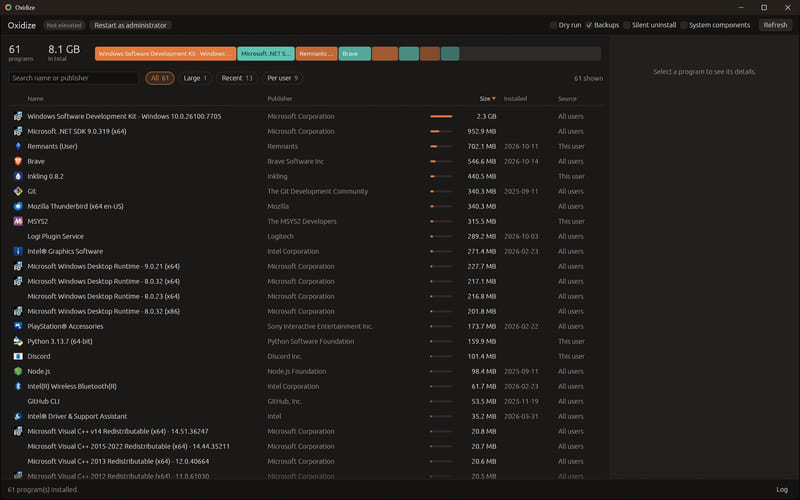
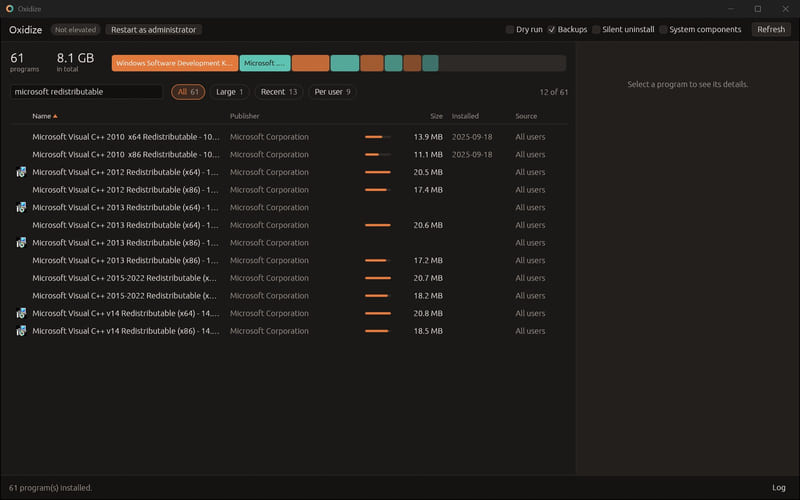
Retake the Oxidize and Inkling screenshots

diff --git a/src/constants/projects/oxidize.ts b/src/constants/projects/oxidize.ts
@@ -73,7 +73,7 @@ export const oxidize: Record<Language, LocalizedContent> = {
       },
     ],
     captions: [
-      "The Oxidize window: 61 programs and 8.1 GB at a glance, a bar of the biggest, and the list sorted by size. Pick a program to uninstall it and see what it left behind.",
+      "The Oxidize window: 61 programs and 8.1 GB at a glance with a bar of the biggest, and the list searched for Microsoft's Visual C++ redistributables. Pick a program to uninstall it and see what it left behind.",
       "The Oxidize mark: a thick O, copper on one side and the verdigris it oxidises into on the other.",
     ],
     tags: ["Rust", "Windows", "CLI", "egui", "Systems"],
@@ -132,7 +132,7 @@ export const oxidize: Record<Language, LocalizedContent> = {
       },
     ],
     captions: [
-      "Das Oxidize-Fenster: 61 Programme und 8.1 GB auf einen Blick, ein Balken mit den grössten und die Liste nach Grösse sortiert. Ein Programm wählen, um es zu deinstallieren und zu sehen, was es zurückgelassen hat.",
+      "Das Oxidize-Fenster: 61 Programme und 8.1 GB auf einen Blick mit einem Balken der grössten, die Liste durchsucht nach den Visual-C++-Laufzeiten von Microsoft. Ein Programm wählen, um es zu deinstallieren und zu sehen, was es zurückgelassen hat.",
       "Das Oxidize-Zeichen: ein dickes O, auf der einen Seite Kupfer, auf der anderen der Grünspan, zu dem es oxidiert.",
     ],
     tags: ["Rust", "Windows", "CLI", "egui", "Systems"],
@@ -191,7 +191,7 @@ export const oxidize: Record<Language, LocalizedContent> = {
       },
     ],
     captions: [
-      "La fenêtre d'Oxidize : 61 programmes et 8,1 Go d'un coup d'œil, une barre des plus gros, et la liste triée par taille. Choisis un programme pour le désinstaller et voir ce qu'il a laissé derrière lui.",
+      "La fenêtre d'Oxidize : 61 programmes et 8,1 Go d'un coup d'œil avec une barre des plus gros, et la liste filtrée sur les runtimes Visual C++ de Microsoft. Choisis un programme pour le désinstaller et voir ce qu'il a laissé derrière lui.",
       "Le logo d'Oxidize : un O épais, cuivre d'un côté, et de l'autre le vert-de-gris en lequel il s'oxyde.",
     ],
     tags: ["Rust", "Windows", "CLI", "egui", "Systems"],
@@ -248,7 +248,7 @@ export const oxidize: Record<Language, LocalizedContent> = {
       },
     ],
     captions: [
-      "Oxidize 窗口：一眼看到 61 个程序、共 8.1 GB，一条横条标出最大的几个，列表按大小排序。选一个程序，就能卸载它并查看它留下了什么。",
+      "Oxidize 窗口：一眼看到 61 个程序、共 8.1 GB，一条横条标出最大的几个，列表筛选为微软的 Visual C++ 运行库。选一个程序，就能卸载它并查看它留下了什么。",
       "Oxidize 的标志：一个粗粗的 O，一半是铜，另一半是它氧化后的铜绿。",
     ],
     tags: ["Rust", "Windows", "CLI", "egui", "Systems"],
